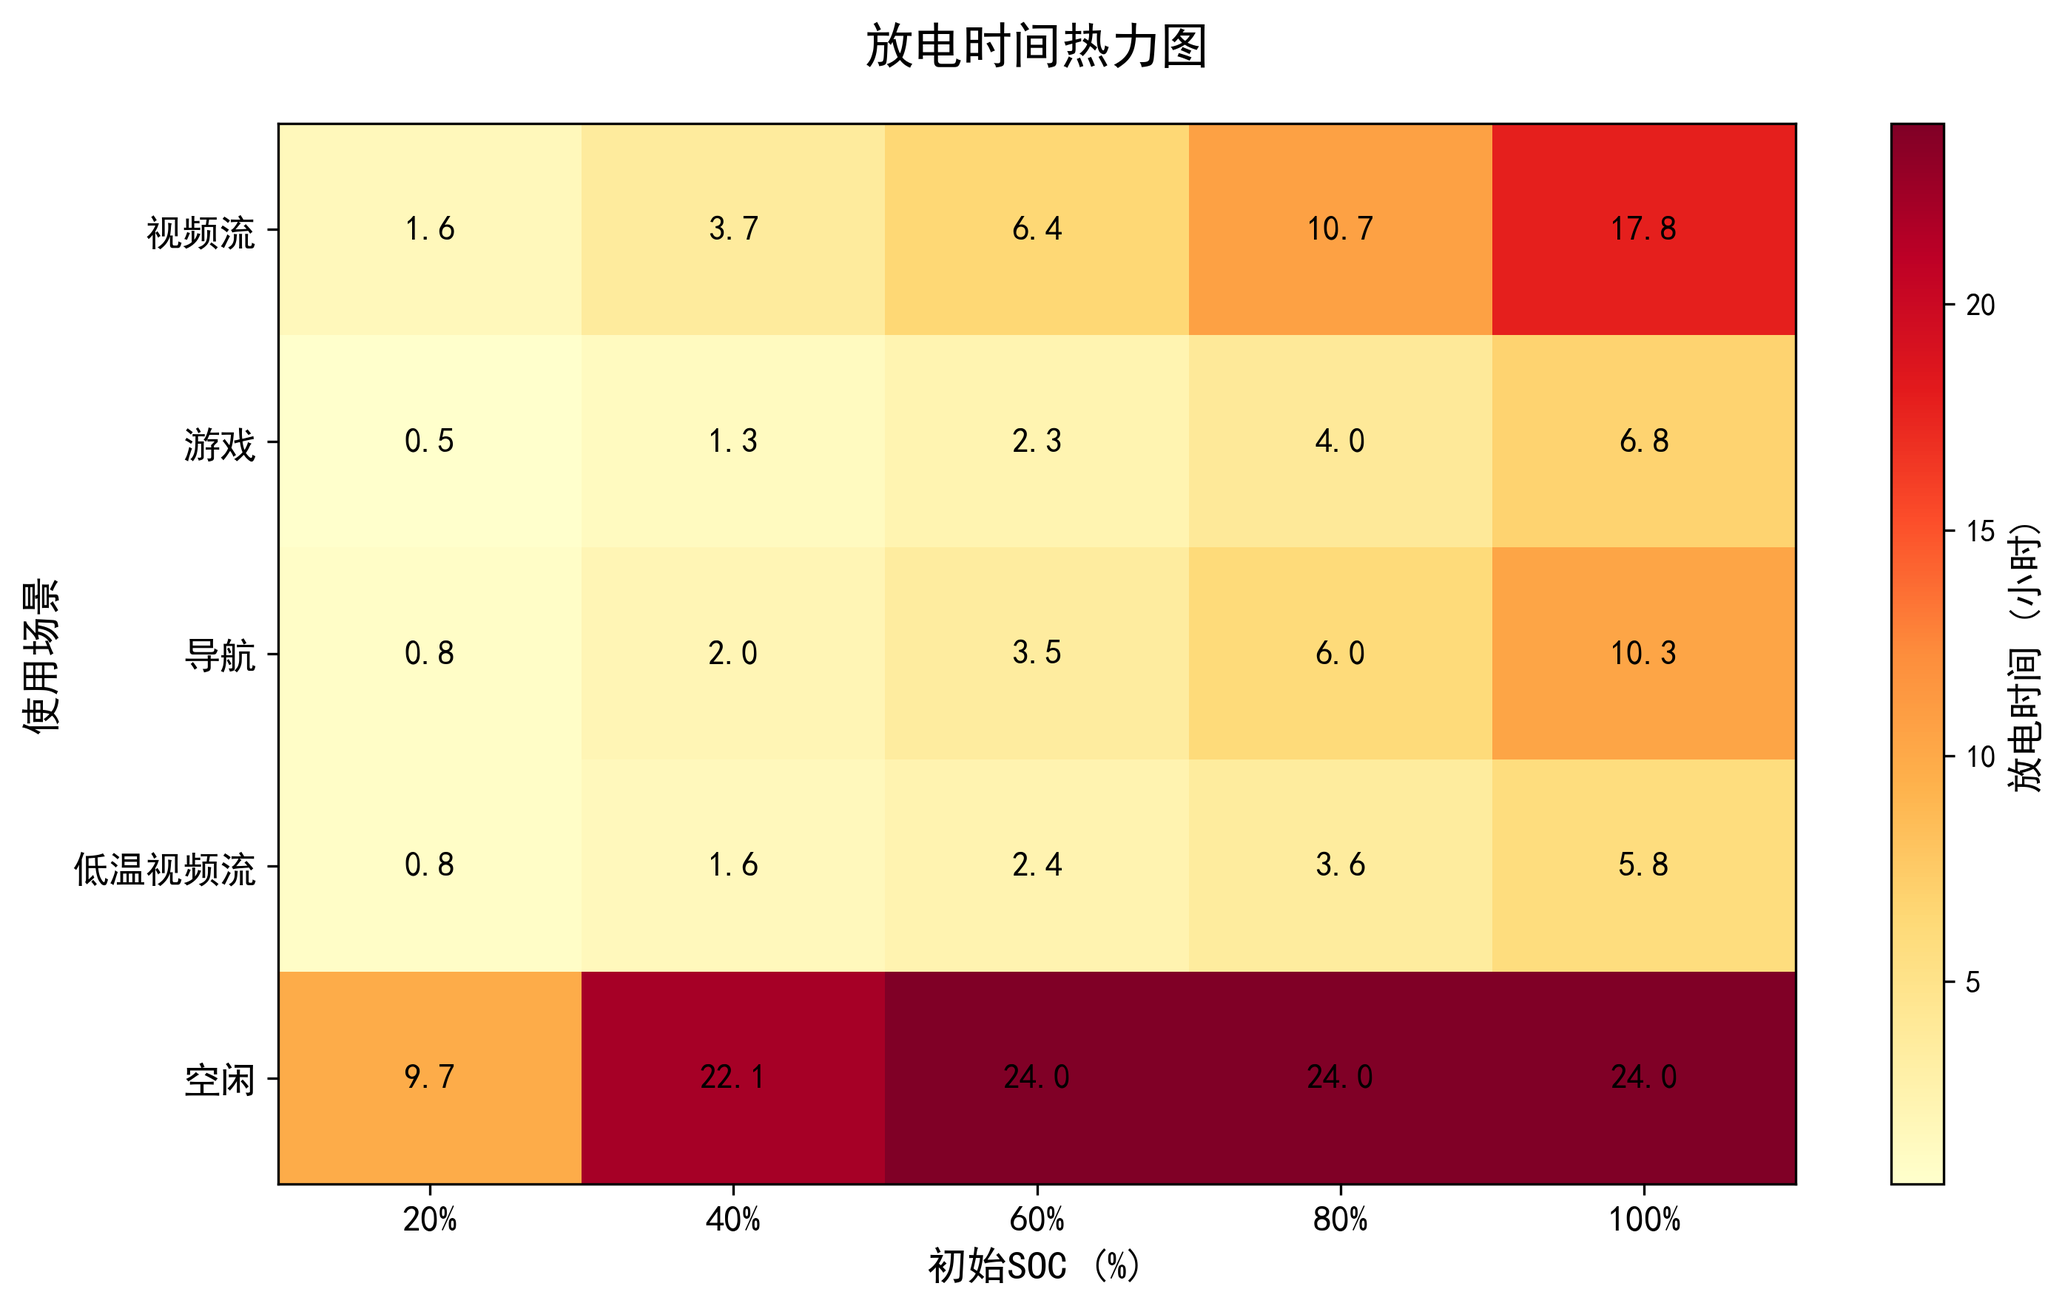
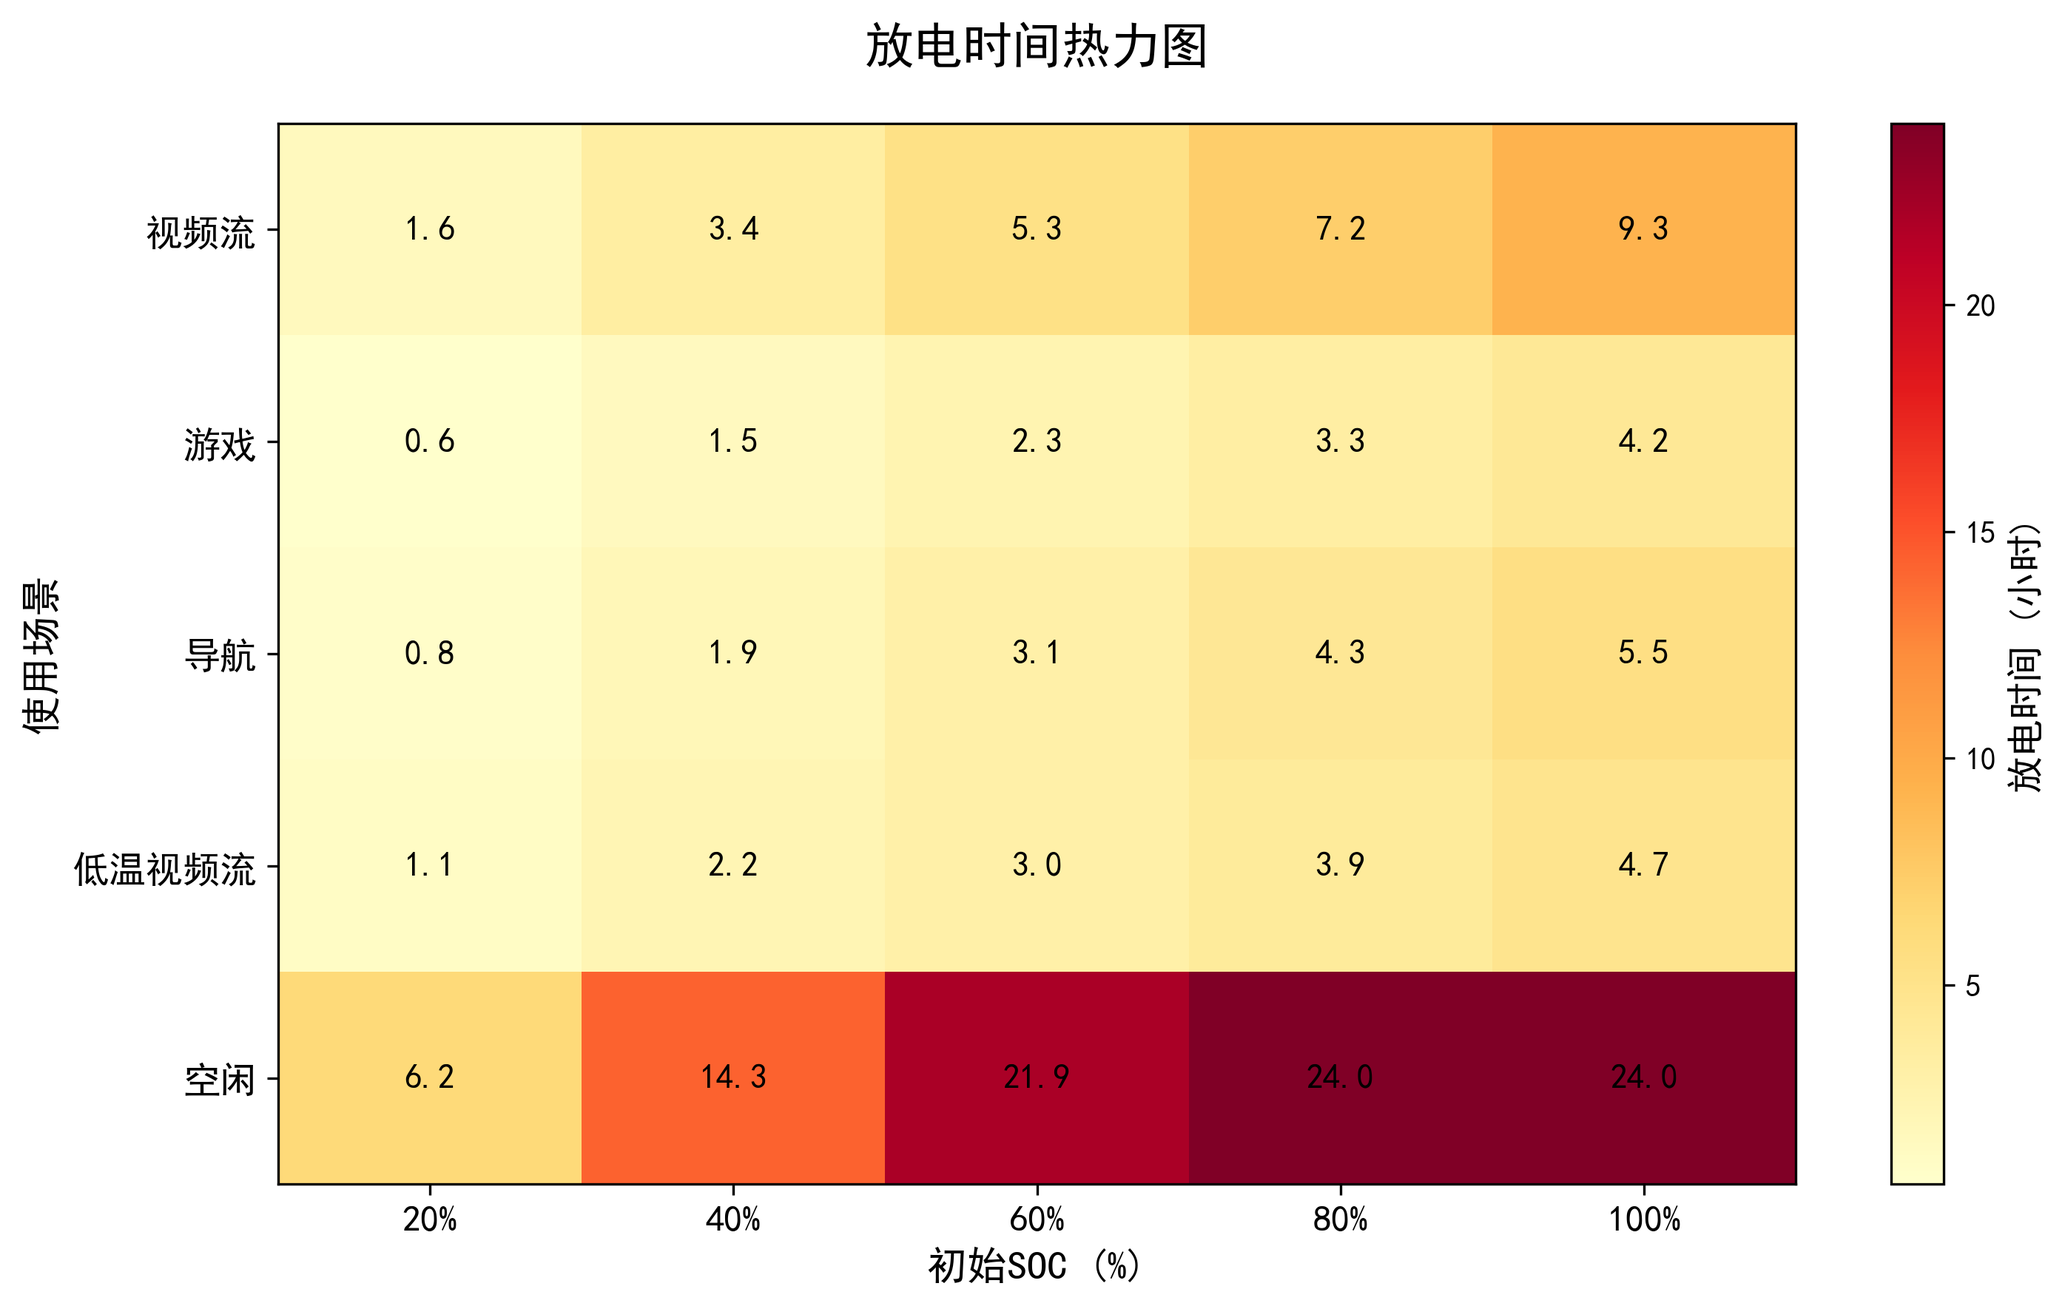
modify

diff --git a/video_full_analysis.py b/video_full_analysis.py
@@ -1,0 +1,334 @@
+import numpy as np
+import matplotlib.pyplot as plt
+from matplotlib.gridspec import GridSpec
+
+from model import SmartphoneBatteryModel
+from scenery import scenario_video_streaming
+
+plt.rcParams['font.sans-serif'] = ['SimHei', 'Microsoft YaHei', 'KaiTi', 'SimSun']
+plt.rcParams['axes.unicode_minus'] = False
+
+
+def simulate_full_video_discharge():
+    """满电常温刷视频完整放电仿真"""
+    model = SmartphoneBatteryModel()
+    
+    # 初始条件：满电、常温、零极化
+    soc0 = 1.0
+    T_init = 298.15  # 25°C
+    y0 = [soc0, T_init, 0.0, 0.0]
+    
+    # 足够长的模拟时间
+    t_span = (0, 48 * 3600)
+    
+    print("="*70)
+    print("满电常温刷视频场景 - 完整放电分析")
+    print("="*70)
+    print(f"初始条件：SOC={soc0*100:.0f}%, T={T_init-273.15:.1f}°C")
+    print("场景：视频流媒体（亮度70%, CPU使用30%, 网络2Mbps）")
+    print(f"电池容量：{model.Q0:.2f} mAh")
+    print(f"标称电压：{model.V_nom} V")
+    print("="*70)
+    
+    # 运行仿真
+    sol = model.simulate(t_span, y0, scenario_video_streaming, max_step=60)
+    
+    # 找到放空时间
+    t_empty_s = model.find_empty_time(sol)
+    t_empty_h = t_empty_s / 3600
+    
+    print(f"\n✓ 仿真完成")
+    print(f"  放电时长：{t_empty_h:.2f} 小时")
+    print(f"  仿真步数：{len(sol.t)} 步")
+    
+    # 截取到放空时刻
+    mask = sol.t <= t_empty_s
+    
+    # 提取数据
+    data = {
+        't_s': sol.t[mask],
+        't_h': sol.t[mask] / 3600,
+        'SOC': sol.y[0, mask],
+        'T_batt': sol.y[1, mask],
+        'U1': sol.y[2, mask],
+        'U2': sol.y[3, mask],
+        't_empty_h': t_empty_h
+    }
+    
+    # 计算衍生量
+    data['V_oc'] = np.array([model.V_oc(soc) for soc in data['SOC']])
+    data['R0'] = np.array([model.get_RC_params(data['SOC'][i], data['T_batt'][i])[0] 
+                           for i in range(len(data['SOC']))])
+    data['R1'] = np.array([model.get_RC_params(data['SOC'][i], data['T_batt'][i])[1] 
+                           for i in range(len(data['SOC']))])
+    data['R2'] = np.array([model.get_RC_params(data['SOC'][i], data['T_batt'][i])[2] 
+                           for i in range(len(data['SOC']))])
+    
+    # 计算电流和功率
+    I_A = []
+    P_total = []
+    V_terminal = []
+    
+    for i in range(len(data['t_s'])):
+        scenario = scenario_video_streaming(data['t_s'][i])
+        P = model.component_power(data['t_s'][i], scenario)
+        I = model.solve_current(P, data['V_oc'][i], data['U1'][i], data['U2'][i], data['R0'][i])
+        V_term = model.get_terminal_voltage(data['SOC'][i], data['T_batt'][i], 
+                                            data['U1'][i], data['U2'][i], I)
+        
+        P_total.append(P)
+        I_A.append(I)
+        V_terminal.append(V_term)
+    
+    data['I_A'] = np.array(I_A)
+    data['P_total'] = np.array(P_total)
+    data['V_terminal'] = np.array(V_terminal)
+    data['T_celsius'] = data['T_batt'] - 273.15
+    
+    return model, data
+
+
+def plot_comprehensive_analysis(model, data):
+    """绘制8合1综合分析图"""
+    
+    # 配色方案（现代科研风）
+    colors = {
+        'primary': '#2E86C1',    # 蓝色
+        'secondary': '#E74C3C',  # 红色
+        'tertiary': '#27AE60',   # 绿色
+        'quaternary': '#8E44AD', # 紫色
+        'U1': '#F5B7B1',         # 粉红
+        'U2': '#AED6F1',         # 浅蓝
+        'grid': '#BDC3C7',       # 浅灰
+        'text': '#2C3E50'        # 深灰
+    }
+    
+    # 创建大图（3行3列布局，最后一个跨两列）
+    fig = plt.figure(figsize=(18, 12))
+    gs = GridSpec(3, 3, figure=fig, hspace=0.35, wspace=0.3)
+    
+    t_h = data['t_h']
+    t_empty = data['t_empty_h']
+    
+    # ========== 1. SOC下降曲线 ==========
+    ax1 = fig.add_subplot(gs[0, 0])
+    ax1.plot(t_h, data['SOC']*100, color=colors['primary'], linewidth=0.5)
+    ax1.fill_between(t_h, 0, data['SOC']*100, color=colors['primary'], alpha=0.2)
+    ax1.axvline(t_empty, color='red', linestyle='--', alpha=0.6, linewidth=1.5)
+    ax1.set_xlabel('时间 (h)', fontweight='bold')
+    ax1.set_ylabel('SOC (%)', fontweight='bold')
+    ax1.set_title('① 荷电状态 (SOC)', fontsize=13, fontweight='bold', pad=10)
+    ax1.grid(True, alpha=0.3, linestyle='--')
+    ax1.set_xlim([0, t_empty*1.05])
+    ax1.set_ylim([0, 105])
+    
+    # ========== 2. 开路电压OCV ==========
+    ax2 = fig.add_subplot(gs[0, 1])
+    ax2.plot(t_h, data['V_oc'], color=colors['tertiary'], linewidth=2.5)
+    ax2.axvline(t_empty, color='red', linestyle='--', alpha=0.6, linewidth=1.5)
+    ax2.set_xlabel('时间 (h)', fontweight='bold')
+    ax2.set_ylabel('电压 (V)', fontweight='bold')
+    ax2.set_title('② 开路电压 ($V_{oc}$)', fontsize=13, fontweight='bold', pad=10)
+    ax2.grid(True, alpha=0.3, linestyle='--')
+    ax2.set_xlim([0, t_empty*1.05])
+    
+    # ========== 3. 极化电压U1/U2堆叠 ==========
+    ax3 = fig.add_subplot(gs[0, 2])
+    total = data['U1'] + data['U2']
+    ax3.fill_between(t_h, 0, data['U1'], color=colors['U1'], alpha=0.85, label='$U_1$ (电化学)')
+    ax3.fill_between(t_h, data['U1'], total, color=colors['U2'], alpha=0.85, label='$U_2$ (浓度)')
+    ax3.plot(t_h, data['U1'], color='#C0392B', linewidth=1.3)
+    ax3.plot(t_h, total, color='#2E86C1', linewidth=1.3)
+    ax3.axhline(0, color='black', linestyle='-', linewidth=1.2, alpha=0.5)
+    ax3.axvline(t_empty, color='red', linestyle='--', alpha=0.6, linewidth=1.5)
+    ax3.set_xlabel('时间 (h)', fontweight='bold')
+    ax3.set_ylabel('极化电压 (V)', fontweight='bold')
+    ax3.set_title('③ 极化电压堆叠', fontsize=13, fontweight='bold', pad=10)
+    ax3.legend(loc='best', fontsize=9, framealpha=0.9)
+    ax3.grid(True, alpha=0.3, linestyle='--')
+    ax3.set_xlim([0, t_empty*1.05])
+    
+    # ========== 4. 内阻 + 温度（双Y轴）==========
+    ax4 = fig.add_subplot(gs[1, 0])
+    
+    ax4_temp = ax4.twinx()
+    ax4_temp.plot(t_h, data['T_celsius'], color='#E67E22', linewidth=1.5, label='电池温度')
+    ax4_temp.axhline(25, color='green', linestyle=':', linewidth=1.5, alpha=0.6, label='环境温度')
+    ax4_temp.set_ylabel('温度 (°C)', fontweight='bold', color='#E67E22')
+    ax4_temp.tick_params(axis='y', labelcolor='#E67E22')
+    # 左轴：内阻
+    ax4.plot(t_h, data['R0']*1000, color='#E74C3C', linewidth=1.2, label='$R_0$ (欧姆)')
+    ax4.plot(t_h, data['R1']*1000, color='#F39C12', linewidth=1.8, label='$R_1$ (电化学)', linestyle='--')
+    ax4.plot(t_h, data['R2']*1000, color='#9B59B6', linewidth=1.8, label='$R_2$ (浓度)', linestyle='--')
+    ax4.axvline(t_empty, color='red', linestyle='--', alpha=0.6, linewidth=1.5)
+    ax4.set_xlabel('时间 (h)', fontweight='bold')
+    ax4.set_ylabel('内阻 (mΩ)', fontweight='bold', color="#110F0F")
+    ax4.tick_params(axis='y', labelcolor="#131111")
+    ax4.set_title('内阻与温度变化', fontsize=13, fontweight='bold', pad=10)
+    ax4.grid(True, alpha=0.3, linestyle='--')
+    ax4.set_xlim([0, t_empty*1.05])
+    
+    # 右轴：温度
+    
+    
+    # 合并图例
+    lines1, labels1 = ax4.get_legend_handles_labels()
+    lines2, labels2 = ax4_temp.get_legend_handles_labels()
+    ax4.legend(lines1 + lines2, labels1 + labels2, loc='upper left', fontsize=8, framealpha=0.9)
+    
+    # ========== 5. 放电电流 ==========
+    ax5 = fig.add_subplot(gs[1, 1])
+    ax5.plot(t_h, data['I_A'], color=colors['secondary'], linewidth=0.5)
+    ax5.fill_between(t_h, 0, data['I_A'], color=colors['secondary'], alpha=0.2)
+    ax5.axvline(t_empty, color='red', linestyle='--', alpha=0.6, linewidth=0.5)
+    ax5.set_xlabel('时间 (h)', fontweight='bold')
+    ax5.set_ylabel('电流 (A)', fontweight='bold')
+    ax5.set_title('⑤ 放电电流', fontsize=13, fontweight='bold', pad=10)
+    ax5.grid(True, alpha=0.3, linestyle='--')
+    ax5.set_xlim([0, t_empty*1.05])
+    
+    # ========== 6. 终端电压 ==========
+    ax6 = fig.add_subplot(gs[1, 2])
+    ax6.plot(t_h, data['V_terminal'], color='#16A085', linewidth=2.5, label='终端电压')
+    ax6.plot(t_h, data['V_oc'], color='#27AE60', linewidth=1.8, linestyle='--', alpha=0.7, label='开路电压')
+    ax6.axhline(2.5, color='red', linestyle=':', linewidth=1.5, alpha=0.6, label='截止电压')
+    ax6.axvline(t_empty, color='red', linestyle='--', alpha=0.6, linewidth=1.5)
+    ax6.set_xlabel('时间 (h)', fontweight='bold')
+    ax6.set_ylabel('电压 (V)', fontweight='bold')
+    ax6.set_title('⑥ 终端电压 vs 开路电压', fontsize=13, fontweight='bold', pad=10)
+    ax6.legend(loc='best', fontsize=9, framealpha=0.9)
+    ax6.grid(True, alpha=0.3, linestyle='--')
+    ax6.set_xlim([0, t_empty*1.05])
+    
+    # ========== 7. 功率消耗 ==========
+    ax7 = fig.add_subplot(gs[2, :])  # 跨三列
+    ax7.plot(t_h, data['P_total'], color='#8E44AD', linewidth=2.5, label='总功率')
+    ax7.fill_between(t_h, 0, data['P_total'], color='#8E44AD', alpha=0.2)
+    
+    # 计算平均功率
+    P_avg = np.mean(data['P_total'])
+    ax7.axhline(P_avg, color='orange', linestyle='--', linewidth=2, alpha=0.7, 
+                label=f'平均功率 = {P_avg:.3f} W')
+    ax7.axvline(t_empty, color='red', linestyle='--', alpha=0.6, linewidth=1.5, 
+                label=f'放空时刻 = {t_empty:.2f}h')
+    
+    ax7.set_xlabel('时间 (h)', fontweight='bold')
+    ax7.set_ylabel('功率 (W)', fontweight='bold')
+    ax7.set_title('⑦ 功率消耗曲线', fontsize=13, fontweight='bold', pad=10)
+    ax7.legend(loc='best', fontsize=10, framealpha=0.9)
+    ax7.grid(True, alpha=0.3, linestyle='--')
+    ax7.set_xlim([0, t_empty*1.05])
+    
+    # 总标题
+    fig.suptitle('满电常温刷视频场景 - 完整放电分析 (7合1)', 
+                 fontsize=16, fontweight='bold', y=0.995)
+    
+    plt.savefig('video_full_analysis_8in1.png', dpi=400, bbox_inches='tight')
+    print("\n✓ 7合1综合分析图已保存：video_full_analysis_8in1.png")
+    plt.show()
+
+
+def plot_energy_statistics(model, data):
+    """绘制能量统计图"""
+    fig, axes = plt.subplots(2, 2, figsize=(14, 10))
+    
+    t_h = data['t_h']
+    t_empty = data['t_empty_h']
+    
+    # 计算能量相关量
+    E_discharged = np.cumsum(data['P_total'] * np.gradient(data['t_s'])) / 3600  # Wh
+    E_total = E_discharged[-1]
+    
+    # 1. 累积放电能量
+    ax = axes[0, 0]
+    ax.plot(t_h, E_discharged, color='#2E86C1', linewidth=2.5)
+    ax.fill_between(t_h, 0, E_discharged, color='#2E86C1', alpha=0.2)
+    ax.set_xlabel('时间 (h)', fontweight='bold', fontsize=11)
+    ax.set_ylabel('累积能量 (Wh)', fontweight='bold', fontsize=11)
+    ax.set_title(f'累积放电能量 (总计: {E_total:.2f} Wh)', fontsize=12, fontweight='bold')
+    ax.grid(True, alpha=0.3, linestyle='--')
+    
+    # 2. SOC vs OCV曲线（特性曲线）
+    ax = axes[0, 1]
+    ax.plot(data['SOC']*100, data['V_oc'], color='#27AE60', linewidth=2.5, marker='o', 
+            markersize=2, markevery=50)
+    ax.set_xlabel('SOC (%)', fontweight='bold', fontsize=11)
+    ax.set_ylabel('开路电压 (V)', fontweight='bold', fontsize=11)
+    ax.set_title('OCV-SOC特性曲线', fontsize=12, fontweight='bold')
+    ax.grid(True, alpha=0.3, linestyle='--')
+    ax.set_xlim([0, 100])
+    
+    # 3. 内阻 vs SOC
+    ax = axes[1, 0]
+    ax.plot(data['SOC']*100, data['R0']*1000, color='#E74C3C', linewidth=2.5, label='$R_0$')
+    ax.plot(data['SOC']*100, data['R1']*1000, color='#F39C12', linewidth=2, label='$R_1$', linestyle='--')
+    ax.plot(data['SOC']*100, data['R2']*1000, color='#9B59B6', linewidth=2, label='$R_2$', linestyle='-.')
+    ax.set_xlabel('SOC (%)', fontweight='bold', fontsize=11)
+    ax.set_ylabel('内阻 (mΩ)', fontweight='bold', fontsize=11)
+    ax.set_title('内阻-SOC特性曲线', fontsize=12, fontweight='bold')
+    ax.legend(loc='best', fontsize=10, framealpha=0.9)
+    ax.grid(True, alpha=0.3, linestyle='--')
+    ax.set_xlim([0, 100])
+    
+    # 4. 关键参数汇总（文字表格）
+    ax = axes[1, 1]
+    ax.axis('off')
+    
+    # 计算统计量
+    stats_text = f"""
+    【关键参数统计】
+    
+    ━━━━━━━━━━━━━━━━━━━━━━━━━━━━━
+    放电时长：     {t_empty:.2f} 小时
+    总放电能量：   {E_total:.2f} Wh
+    平均功率：     {np.mean(data['P_total']):.3f} W
+    ━━━━━━━━━━━━━━━━━━━━━━━━━━━━━
+    初始SOC：      {data['SOC'][0]*100:.1f}%
+    终止SOC：      {data['SOC'][-1]*100:.1f}%
+    SOC变化：      {(data['SOC'][0]-data['SOC'][-1])*100:.1f}%
+    ━━━━━━━━━━━━━━━━━━━━━━━━━━━━━
+    初始OCV：      {data['V_oc'][0]:.3f} V
+    终止OCV：      {data['V_oc'][-1]:.3f} V
+    OCV下降：      {data['V_oc'][0]-data['V_oc'][-1]:.3f} V
+    ━━━━━━━━━━━━━━━━━━━━━━━━━━━━━
+    电流范围：     {data['I_A'].min():.3f} ~ {data['I_A'].max():.3f} A
+    平均电流：     {np.mean(data['I_A']):.3f} A
+    ━━━━━━━━━━━━━━━━━━━━━━━━━━━━━
+    温度范围：     {data['T_celsius'].min():.2f} ~ {data['T_celsius'].max():.2f} °C
+    温升：         {data['T_celsius'].max()-data['T_celsius'].min():.2f} °C
+    ━━━━━━━━━━━━━━━━━━━━━━━━━━━━━
+    电池容量：     {model.Q0:.2f} mAh
+    标称电压：     {model.V_nom} V
+    理论能量：     {model.Q0*model.V_nom/1000:.2f} Wh
+    能量效率：     {E_total/(model.Q0*model.V_nom/1000)*100:.1f}%
+    ━━━━━━━━━━━━━━━━━━━━━━━━━━━━━
+    """
+    
+    ax.text(0.05, 0.95, stats_text, transform=ax.transAxes, 
+            fontsize=11, verticalalignment='top', family='monospace',
+            bbox=dict(boxstyle='round', facecolor='#ECF0F1', alpha=0.8, edgecolor='#34495E', linewidth=2))
+    
+    fig.suptitle('能量分析与特性曲线', fontsize=15, fontweight='bold', y=0.98)
+    plt.tight_layout()
+    plt.savefig('video_energy_analysis.png', dpi=400, bbox_inches='tight')
+    print("✓ 能量分析图已保存：video_energy_analysis.png")
+    plt.show()
+
+
+if __name__ == '__main__':
+    # 运行仿真
+    model, data = simulate_full_video_discharge()
+    
+    # 绘制8合1综合分析图
+    plot_comprehensive_analysis(model, data)
+    
+    # 绘制能量统计分析图
+    plot_energy_statistics(model, data)
+    
+    print("\n" + "="*70)
+    print("所有分析图表生成完成！")
+    print("="*70)
+    print("生成的文件：")
+    print("  1. video_full_analysis_8in1.png   - 8合1综合分析图")
+    print("  2. video_energy_analysis.png      - 能量与特性曲线分析")
+    print("="*70)

diff --git a/model.py b/model.py
@@ -4,15 +4,15 @@ from scipy.integrate import solve_ivp
 class SmartphoneBatteryModel:
     def __init__(self):
         # 电池参数
-        self.Q0 = 4735.952          # 标称容量 (mAh)
+        self.Q0 = 3035.952          # 标称容量 (mAh)
         self.V_nom = 3.7          # 标称电压 (V)
         
         # 二阶RC等效电路参数
-        self.R0 = 0.05            # 欧姆内阻 (Ohm) - 瞬态响应
-        self.R1 = 0.03            # 电化学极化内阻 (Ohm)
-        self.C1 = 2000.0          # 电化学极化电容 (F)
-        self.R2 = 0.02            # 浓度极化内阻 (Ohm)
-        self.C2 = 5000.0          # 浓度极化电容 (F)
+        self.R0 = 0.03            # 欧姆内阻 (Ohm) - 瞬态响应
+        self.R1 = 0.008            # 电化学极化内阻 (Ohm)
+        self.C1 = 1000.0          # 电化学极化电容 (F)
+        self.R2 = 0.005            # 浓度极化内阻 (Ohm)
+        self.C2 = 2000.0          # 浓度极化电容 (F)
         
         # 时间常数
         self.tau1 = self.R1 * self.C1  # ~60秒 (电化学极化)
@@ -25,8 +25,8 @@ class SmartphoneBatteryModel:
         self.F = 96485.0          # 法拉第常数
         
         # 热参数
-        self.C_th = 200.0         # 热容 (J/K)
-        self.h = 10.0             # 传热系数 (W/m2K)
+        self.C_th = 600.0         # 热容 (J/K)
+        self.h = 6.0             # 传热系数 (W/m2K)
         self.A = 0.01             # 表面积 (m2)
         
         # 老化参数
@@ -34,7 +34,7 @@ class SmartphoneBatteryModel:
         
         # 组件功耗参数
         self.P_cpu_idle = 0.1     # CPU空闲功耗 (W)
-        self.P_cpu_B=0.5             # CPU系数
+        self.P_cpu_B=0.3             # CPU系数
         self.P_cpu_f=2             # CPU频率
         self.P_cpu_max = 3.0      # CPU最大功耗 (W)
         self.P_net_idle = 0.1     # 网络空闲功耗 (W)
@@ -49,7 +49,7 @@ class SmartphoneBatteryModel:
     def V_oc(self, SOC):
         """开路电压曲线 (OCV-SOC关系)"""
         #SOC_safe = np.clip(SOC, 0.0, 1.0)
-        return 3.39 + 2.65*SOC - 11.11*SOC**2 + 24.973*SOC**3
+        return 3.39 + 1.05*SOC - 0.4*SOC**2 + 0.3*SOC**3
     
     def get_RC_params(self, SOC, T):
         """
@@ -96,7 +96,7 @@ class SmartphoneBatteryModel:
         # CPU功耗
         if 'cpu_usage' in scenario:
             cpu_usage = scenario['cpu_usage']
-            power += self.P_cpu_idle + cpu_usage*self.P_cpu_B*(self.P_cpu_f**3)
+            power += self.P_cpu_idle + cpu_usage*self.P_cpu_B*(self.P_cpu_f**2)
         
         # 网络功耗
         if 'data_rate' in scenario:
